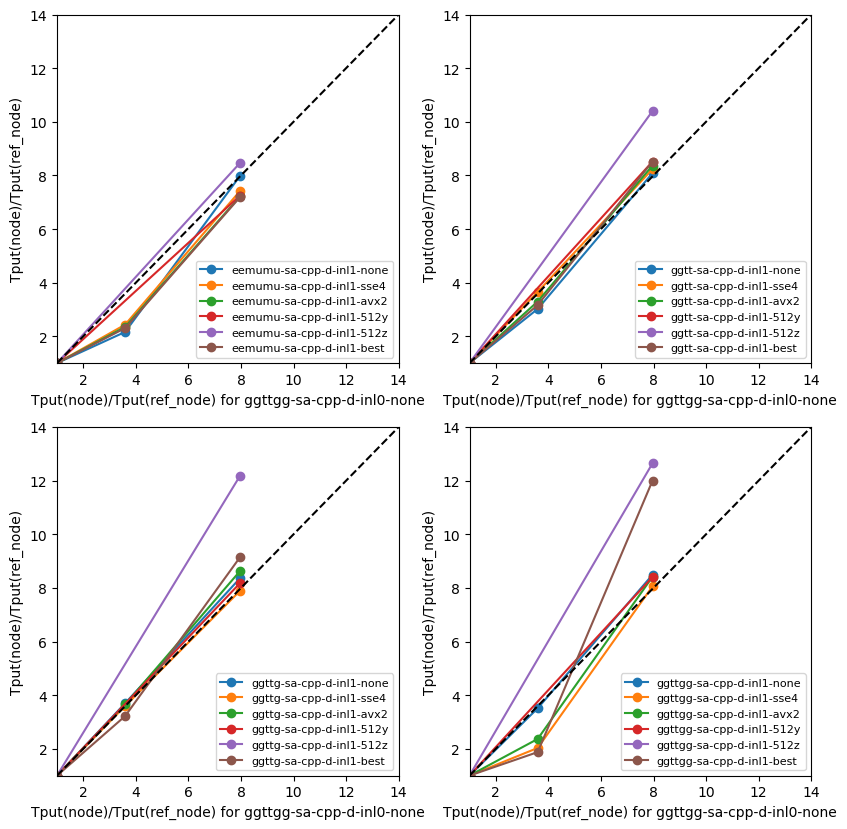
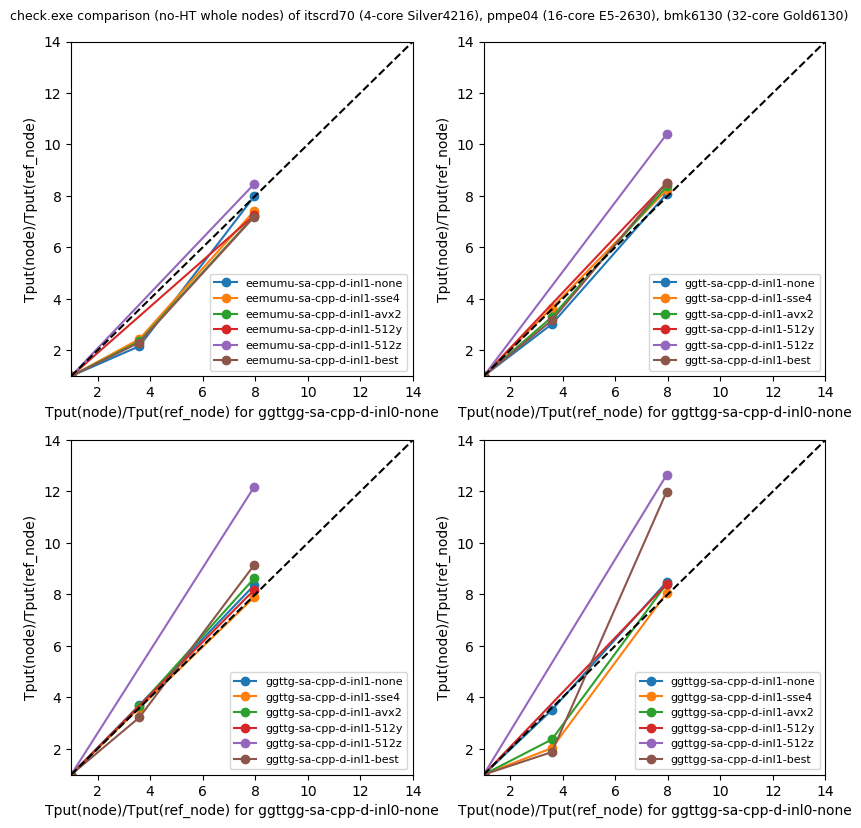
[bmk] add a title to plots

diff --git a/tools/benchmarking/bmkplots.py b/tools/benchmarking/bmkplots.py
@@ -546,6 +546,8 @@ def compareNodesCppPlot( df='-d-', inl='inl0' ):
     compareNodesCpp( ax2, df=df, inl=inl, process='ggtt-' )
     compareNodesCpp( ax3, df=df, inl=inl, process='ggttg-' )
     compareNodesCpp( ax4, df=df, inl=inl, process='ggttgg-' )
+    ftitle='check.exe comparison (no-HT whole nodes) of itscrd70 (4-core Silver4216), pmpe04 (16-core E5-2630), bmk6130 (32-core Gold6130)'
+    fig.suptitle( ftitle, size=plots_ftitlesize )
     pngpath = 'BMK-COMPARE/all-sa-cpp%s%s.png'%(df,inl)
     fig.set_tight_layout( True )
     fig.savefig( pngpath, format='png', bbox_inches="tight" )
